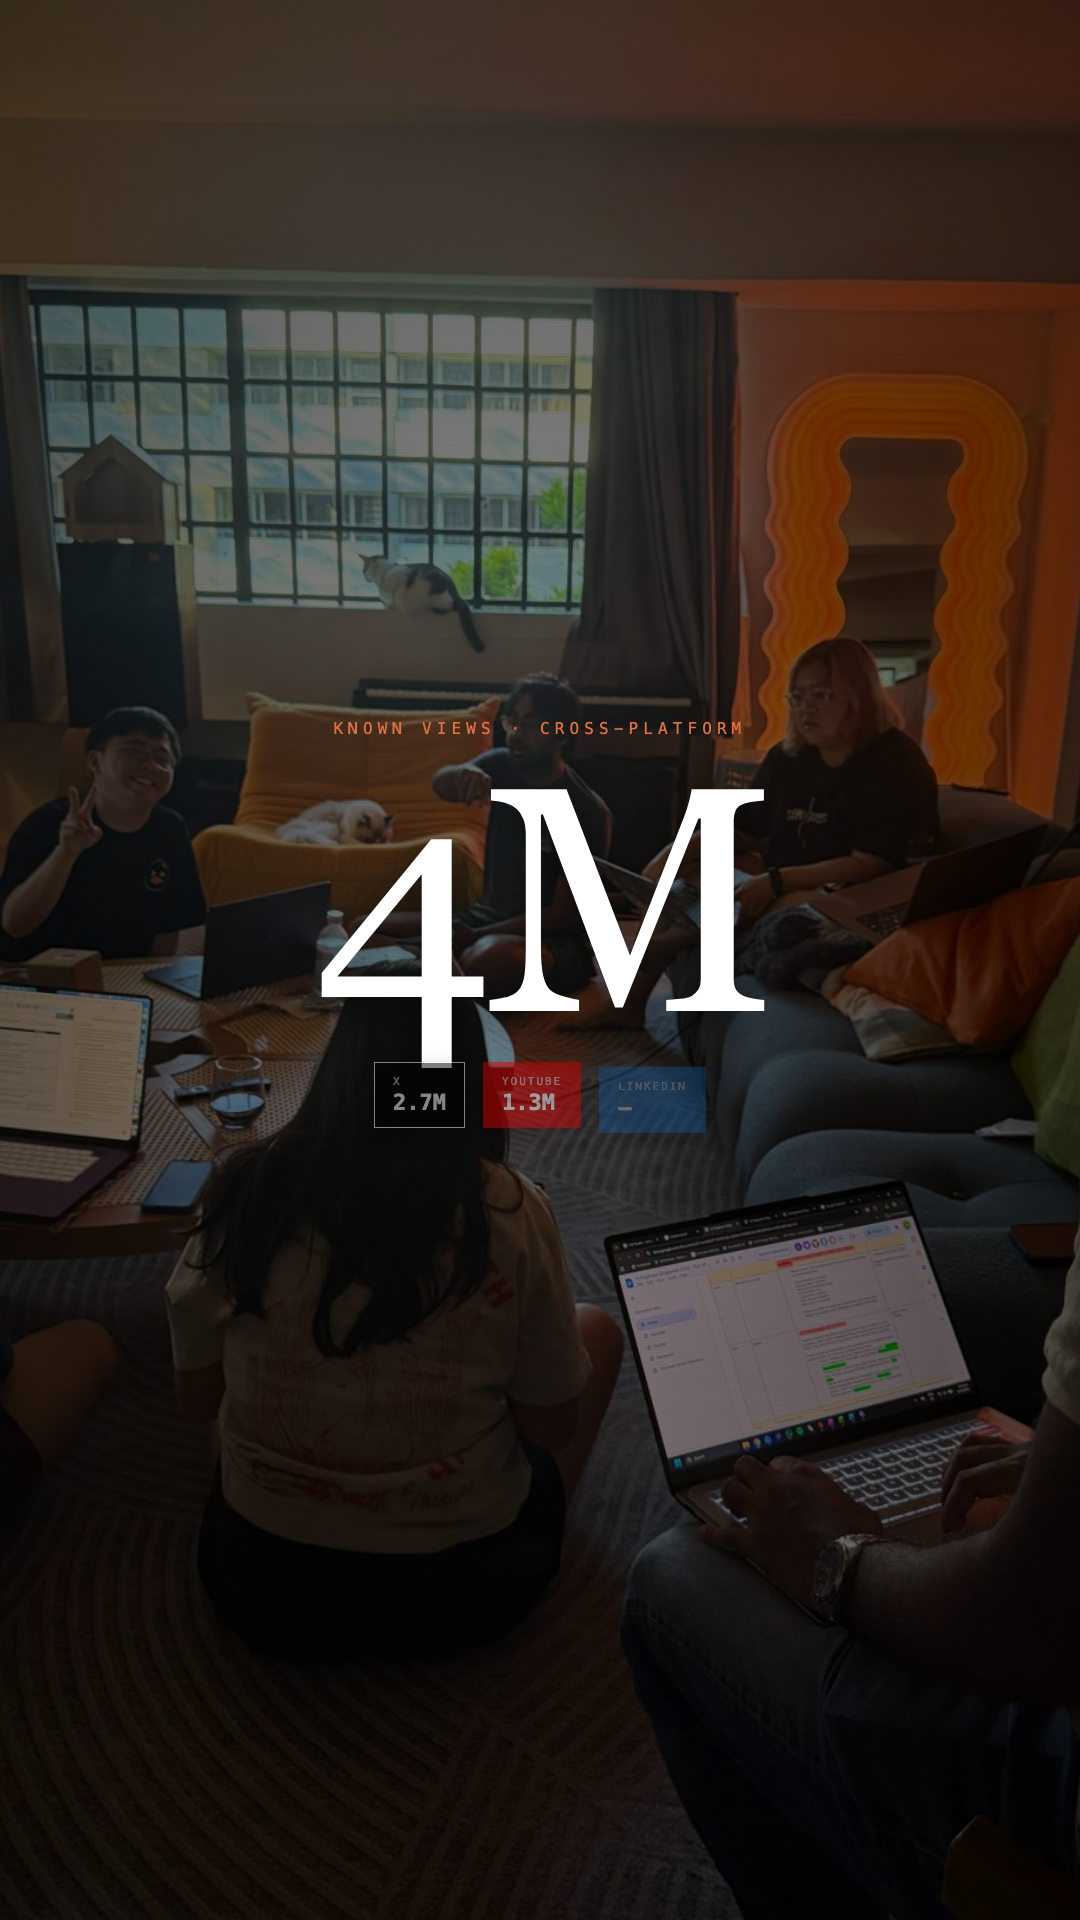
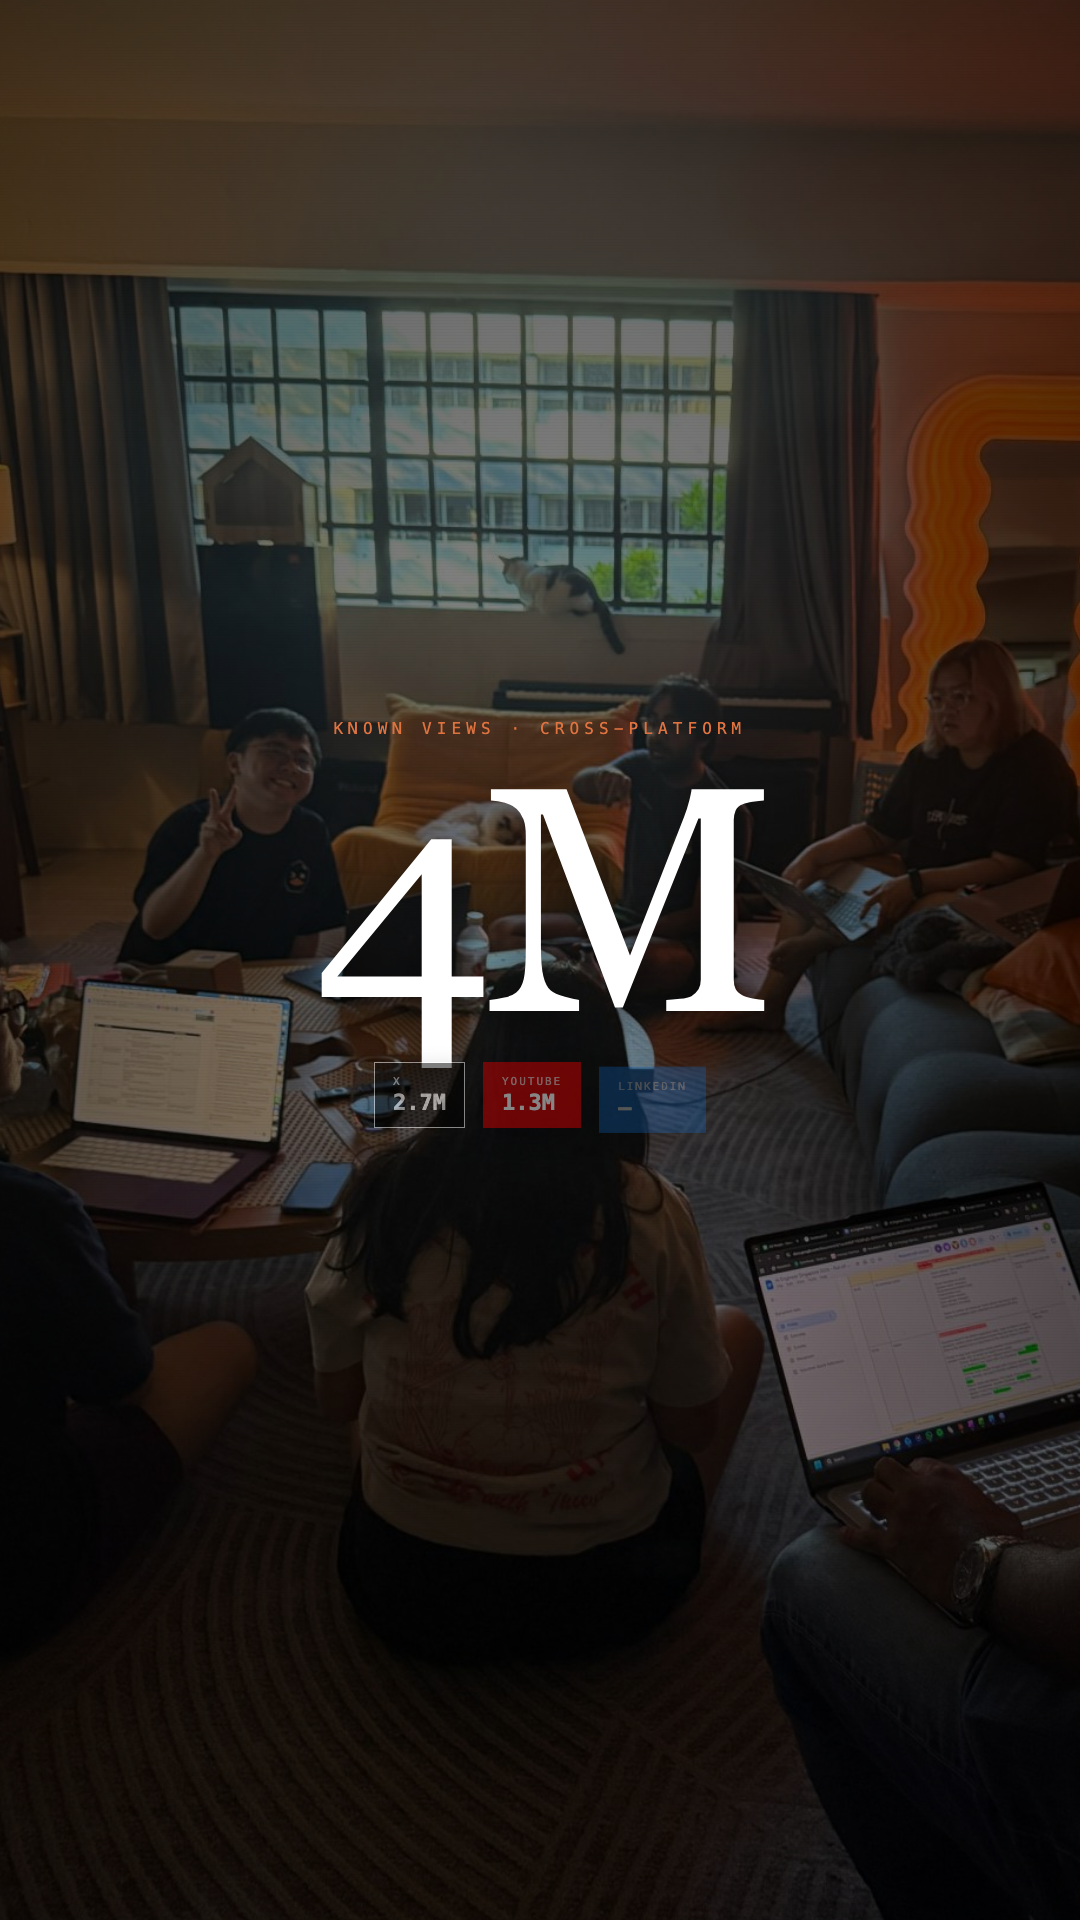
docs(recap-variants): smart-crop + pan notes + refreshed stills

diff --git a/docs/mocks/recap-variants/README.md b/docs/mocks/recap-variants/README.md
@@ -24,6 +24,35 @@ npm run recap:studio
 
 ---
 
+## Smart-crop + motion (2026-05-26)
+
+**Focal points.** Every `MediaAsset` in `src/remotion/EventRecap/data.ts`
+now carries `focal: {x, y}` and `subjectBox: {x, y, w, h}`, populated by
+`scripts/tag-media-focal.ts` (OpenAI GPT-5.4 Mini, ~$0.05 for the full
+pool). `MediaBackdrop` and per-variant scenes resolve those through
+`focalObjectPosition()` to bias `object-position` (and `transformOrigin`
+under Ken Burns), so horizontal source photos no longer center-crop
+blindly when framed in 9:16 — speakers, sponsor pins, and badges stay
+inside the safe area.
+
+**Ken Burns pan.** `defaultKenBurns(asset)` derives a from/to pan from
+the subject-box center toward the focal point with a 1.02 → 1.12 zoom.
+Wired into four motion-friendly variants: **sundance-doc** (cold-open
+drift on faces, scene-local time for each montage pick), **brand-sizzle**
+(horizontal-led parallax over Vivian + sponsor wall), **vhs-doc**
+(deliberate base motion under the wobble), and **apple-keynote**
+(ultra-slow rise with a y bias toward focal). The other six variants
+keep static focal-point crops — Ken Burns would fight their character
+(mrbeast hyper-cuts, synthwave glitch, etc).
+
+**TODO.** The standalone `EventRecapVertical` / `EventRecapHorizontal`
+MP4s in `out/aie2026/` are stale (last rendered May 25, pre-fix). The
+Studio shows the fix live; the standalone MP4s need a re-render via
+`npm run recap:render:vert` + `npm run recap:render:horiz` if anyone
+wants the artifact.
+
+---
+
 ## Side-by-side
 
 | # | Slug | Vibe | Cover | MP4 (9×16) | MP4 (16×9) |
